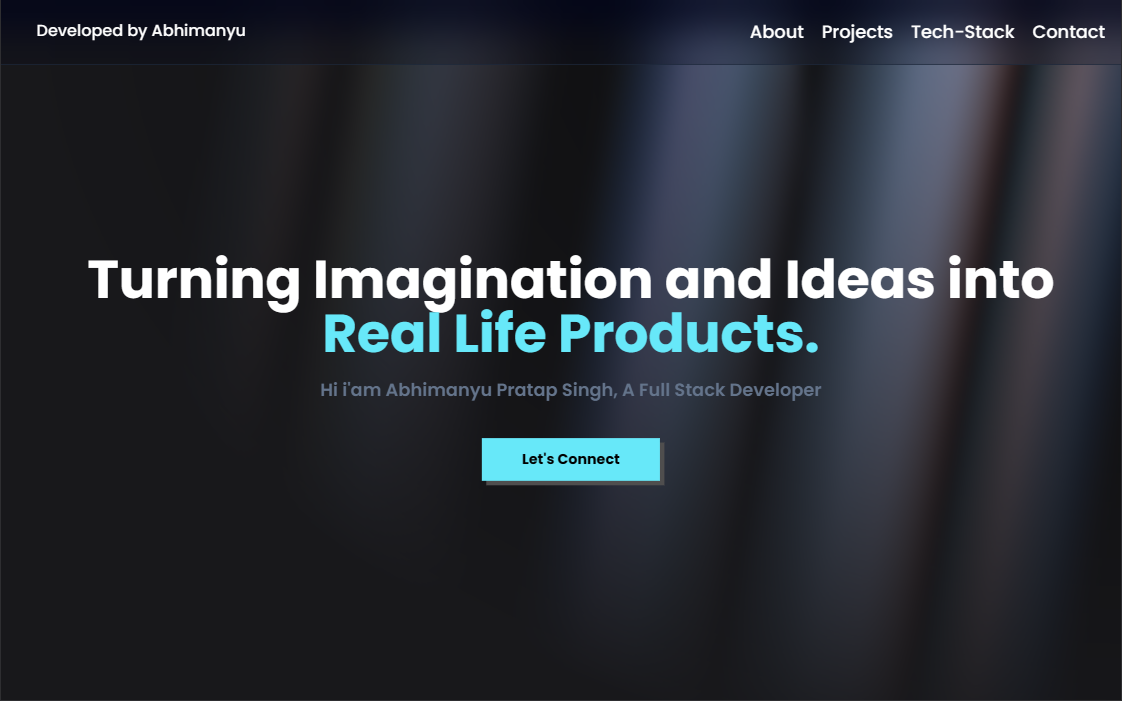
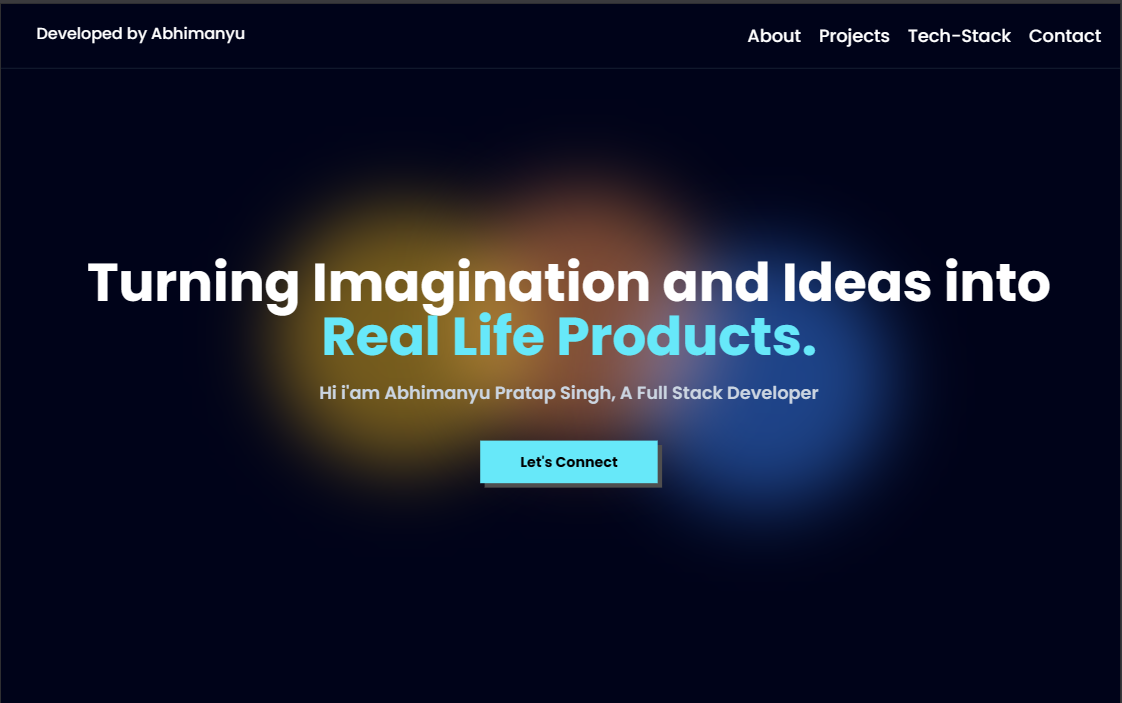
fixed animation

diff --git a/src/pages/Landing.jsx b/src/pages/Landing.jsx
@@ -16,9 +16,9 @@ const Landing = ({ links }) => {
                         animate={{ opacity: 1,}}
                         transition={{ duration: 1.5, ease: easeInOut }}
                     >
-                        <div className="absolute z-0 animate-blob animation-delay-2000 bg-yellow-500 mix-blend-screen filter blur-2xl opacity-50 size-36 min-[400px]:size-44 min-[450px]:size-48 min-[500px]:size-56 sm:size-64 md:size-72 rounded-full top-1/4 left-[7%] min-[450px]:left-[15%] md:left-[25%]"></div>
-                        <div className="absolute z-0 animate-blob animation-delay-4000 bg-orange-400 mix-blend-screen filter blur-2xl opacity-50 size-36 min-[400px]:size-44 min-[450px]:size-48 min-[500px]:size-56 sm:size-64 md:size-72 rounded-full top-[25%] left-[35%] md:left-[40%]"></div>
-                        <div className="absolute z-0 animate-blob bg-blue-500 mix-blend-screen filter blur-2xl opacity-50 size-36 min-[400px]:size-44 min-[450px]:size-48 min-[500px]:size-56 sm:size-64 md:size-72 rounded-full top-1/3 left-[45%] min-[450px]:left-[45%] min-[500px]:left-[50%] md:left-[55%]"></div>
+                        <div className="absolute z-0 animate-blob animation-delay-2000 bg-yellow-500 mix-blend-screen filter blur-[32px] sm:blur-2xl opacity-50 size-36 min-[400px]:size-44 min-[450px]:size-48 min-[500px]:size-56 sm:size-64 md:size-72 rounded-full top-1/4 left-[7%] min-[450px]:left-[15%] md:left-[25%]"></div>
+                        <div className="absolute z-0 animate-blob animation-delay-4000 bg-orange-400 mix-blend-screen filter blur-[32px] sm:blur-2xl opacity-50 size-36 min-[400px]:size-44 min-[450px]:size-48 min-[500px]:size-56 sm:size-64 md:size-72 rounded-full top-[25%] left-[35%] md:left-[40%]"></div>
+                        <div className="absolute z-0 animate-blob bg-blue-500 mix-blend-screen filter blur-[32px] sm:blur-2xl opacity-50 size-36 min-[400px]:size-44 min-[450px]:size-48 min-[500px]:size-56 sm:size-64 md:size-72 rounded-full top-1/3 left-[45%] min-[450px]:left-[45%] min-[500px]:left-[50%] md:left-[55%]"></div>
                     </motion.div>
                     <div className="w-full absolute z-1">
                         <motion.div
